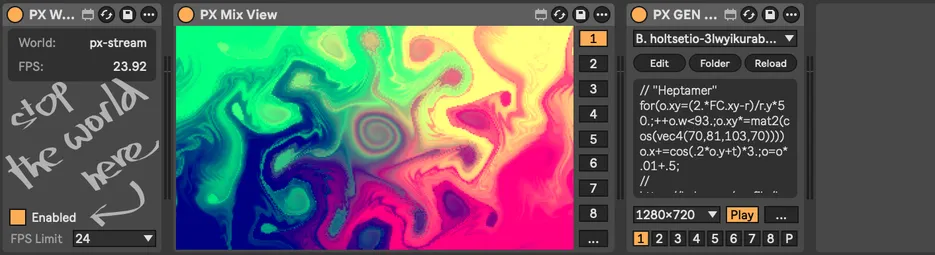
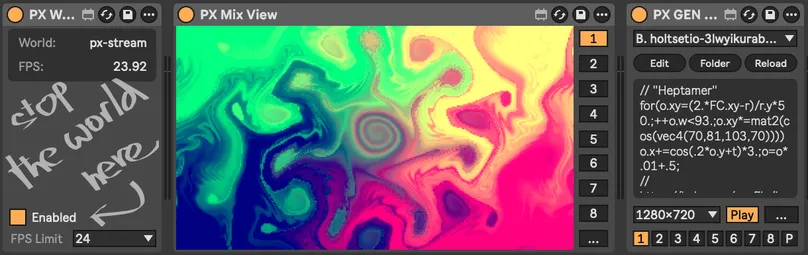
screenshots

diff --git a/scripts/screenshots.guide.conf.js b/scripts/screenshots.guide.conf.js
@@ -6,9 +6,9 @@ export default {
   y0: 1445,
   y1: 385,
   devices: [
-    [1, 'Minimal patch', 248 + 676 + 468 + 2*10],
-    [2, 'Adding FX', 248 + 676 + 468 + 276 + 276 + 4*10],
-    [3, 'Using Mix Dry', 248 + 676 + 468 + 276 + 276 + 276 + 276 + 6*10],
+    [1, 'Minimal patch', 248 + 676 + 276 + 2*10],
+    [2, 'Adding FX', 248 + 676 + 276 + 276 + 276 + 4*10],
+    [3, 'Using Mix Dry', 248 + 676 + 276 + 276 + 276 + 276 + 276 + 6*10],
     [4, 'Syphon streaming', 1054],
   ].map(([src, name, x1, exclude]) => {
     WIDTHS[src] = WIDTHS[src] || 14

diff --git a/README.md b/README.md
@@ -124,7 +124,7 @@ Following first 3 guides are available as Live sessions in `/Demo` folder/
 
 ✨ `TIP`  All devices start with PX so you can quickly select device with sequence <kbd>Command+F</kbd> + `px wo` + <kbd>Down</kbd> + <kbd>Enter</kbd>
 
-<img src="./docs/media/guide/Minimal_patch.webp" height="231" title="Minimal patch" />
+<img src="./docs/media/guide/Minimal_patch.webp" height="127" title="Minimal patch" />
 
 <br>
 
@@ -136,7 +136,7 @@ Following first 3 guides are available as Live sessions in `/Demo` folder/
 4. Select **1** in `channel selector in the bottom of the last inserted device
 5. Adjust FX Kaleidoscope parameters as you like
 
-<img src="./docs/media/guide/Adding_FX.webp" height="231" title="Adding FX" />
+<img src="./docs/media/guide/Adding_FX.webp" height="127" title="Adding FX" />
 
 <br>
 
@@ -154,7 +154,7 @@ Following first 3 guides are available as Live sessions in `/Demo` folder/
 
 ✨ `TIP`  Replace the `Mix Dry` device with [PX Mix Transition](#px-mix-transition) and try experimenting with that.
 
-<img src="./docs/media/guide/Using_Mix_Dry.webp" height="231" title="Using Mix Dry" />
+<img src="./docs/media/guide/Using_Mix_Dry.webp" height="127" title="Using Mix Dry" />
 
 <br>
 
@@ -165,7 +165,7 @@ Following first 3 guides are available as Live sessions in `/Demo` folder/
 
 📒 `NOTE` `Mix OUT` has dual purpose, not only it turns the Syphon/Spout output on, but it also can be consumed with the [IN Mix](#in-mix) device for further (post)processing
 
-<img src="./docs/media/guide/Syphon_streaming.webp" height="231" title="Syphon streaming" />
+<img src="./docs/media/guide/Syphon_streaming.webp" height="127" title="Syphon streaming" />
 
 <br>
 
